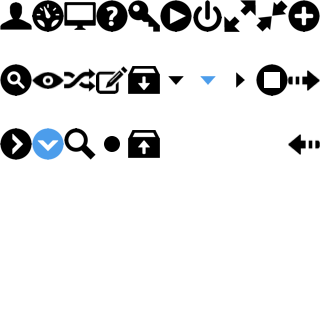
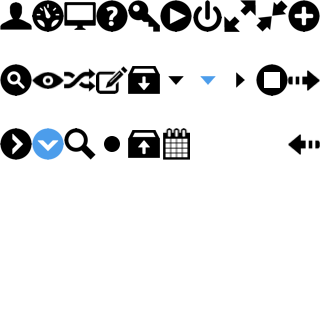
Modal structure fix

Changed region(s): [[0.5, 0.375, 0.5938, 0.5]]

diff --git a/app/assets/stylesheets/_redesign-modal.scss b/app/assets/stylesheets/_redesign-modal.scss
@@ -1,4 +1,7 @@
 .modal {
+  form {
+    margin: 0;
+  }
   &.modal-wide {
     width:960px;
     margin-left:-480px;
@@ -9,6 +12,7 @@
     @include box-shadow(inset 0 -1px 0 $modalHeaderShadow);
     .btn {
       margin-top: 2px;
+      padding: 2px;
       &:hover,
       &:active {
         border: 1px solid $white;
@@ -16,18 +20,52 @@
     }
     h2 {
       color: $white;
+      text-shadow: 0;
     }
   }
   .modal-body {
     label {
       font-weight: bold;
       font-size: 11px;
-      color: $gray;
+      color: $darkGray;
+    }
+    .wysiwyg-area {
+      border: 1px solid $widgetBorder;
+      @include border-radius($default-border-radius);
+      padding: 4px;
+      background: $lightGray;
+      margin-bottom: 10px;
+      .double {
+        height: 140px;
+      }
+    }
+    .date {
+      padding-left: 26px;
+      @include background-size(160px 160px);
+      background-image: url("/images/grcicons/icons.png");
+      background-repeat: no-repeat;
+      background-position: -80px -64px;
+    }
+  }
+  .modal-info {
+    background: $widgetFooteBgnd;
+    padding: 5px 20px 4px 20px;
+    font-size: 11px;
+    color: $darkGray;
+    .span3 {
+      min-height: auto;
     }
   }
   .modal-footer {
     background: $lightGray;
     text-align: left;
+    .deny-buttons {
+      .btn {
+        &:hover {
+          border: 1px solid $white;
+        }
+      }
+    }
     .version-nav {
       text-align: center;
       font-size: 11px;

diff --git a/app/assets/stylesheets/_redesign-setup.scss b/app/assets/stylesheets/_redesign-setup.scss
@@ -50,9 +50,9 @@
   $topBarSearchBorder: #282a2c;
   $topBarSearchBgnd: #6a6b6d;
   $green: green;
-  $modalHeader: #44aac8;
-  $modalHeaderBorder: #3097b5;
-  $modalHeaderShadow: #7bcce4;
+  $modalHeader: #0071cc;
+  $modalHeaderBorder: #074fb2;
+  $modalHeaderShadow: #9ac5ff;
 
 // mixins
 
@@ -70,5 +70,5 @@
 
   @mixin new-icons() {
     @include background-size(160px 160px);
-    background-image: url("/images/grcicons/icons.png");    
+    background-image: url("/images/grcicons/icons.png");
   }
